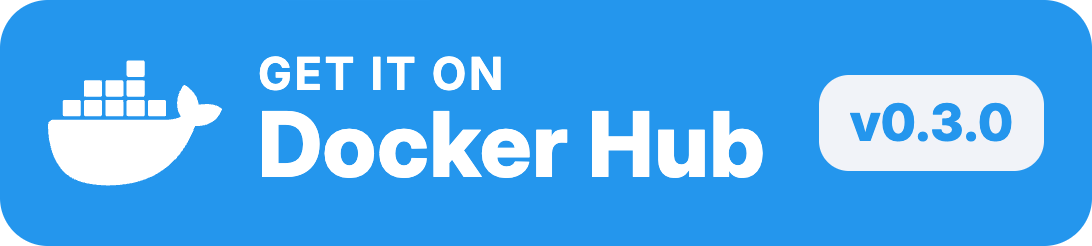
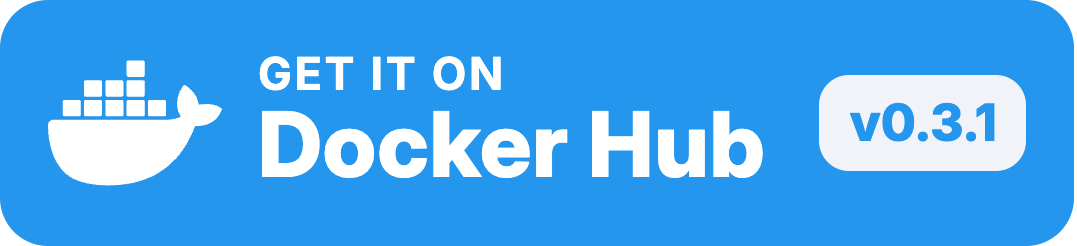
chore(release): v0.3.1

diff --git a/CHANGELOG.md b/CHANGELOG.md
@@ -1,5 +1,11 @@
 # Changelog
 
+## v0.3.1 (2026-11-02)
+
+### Fixes
+
+- **rooms**: close only the sender's socket when a room command throws, and keep the queue going
+
 ## v0.3.0 (2026-11-02)
 
 ### Features
